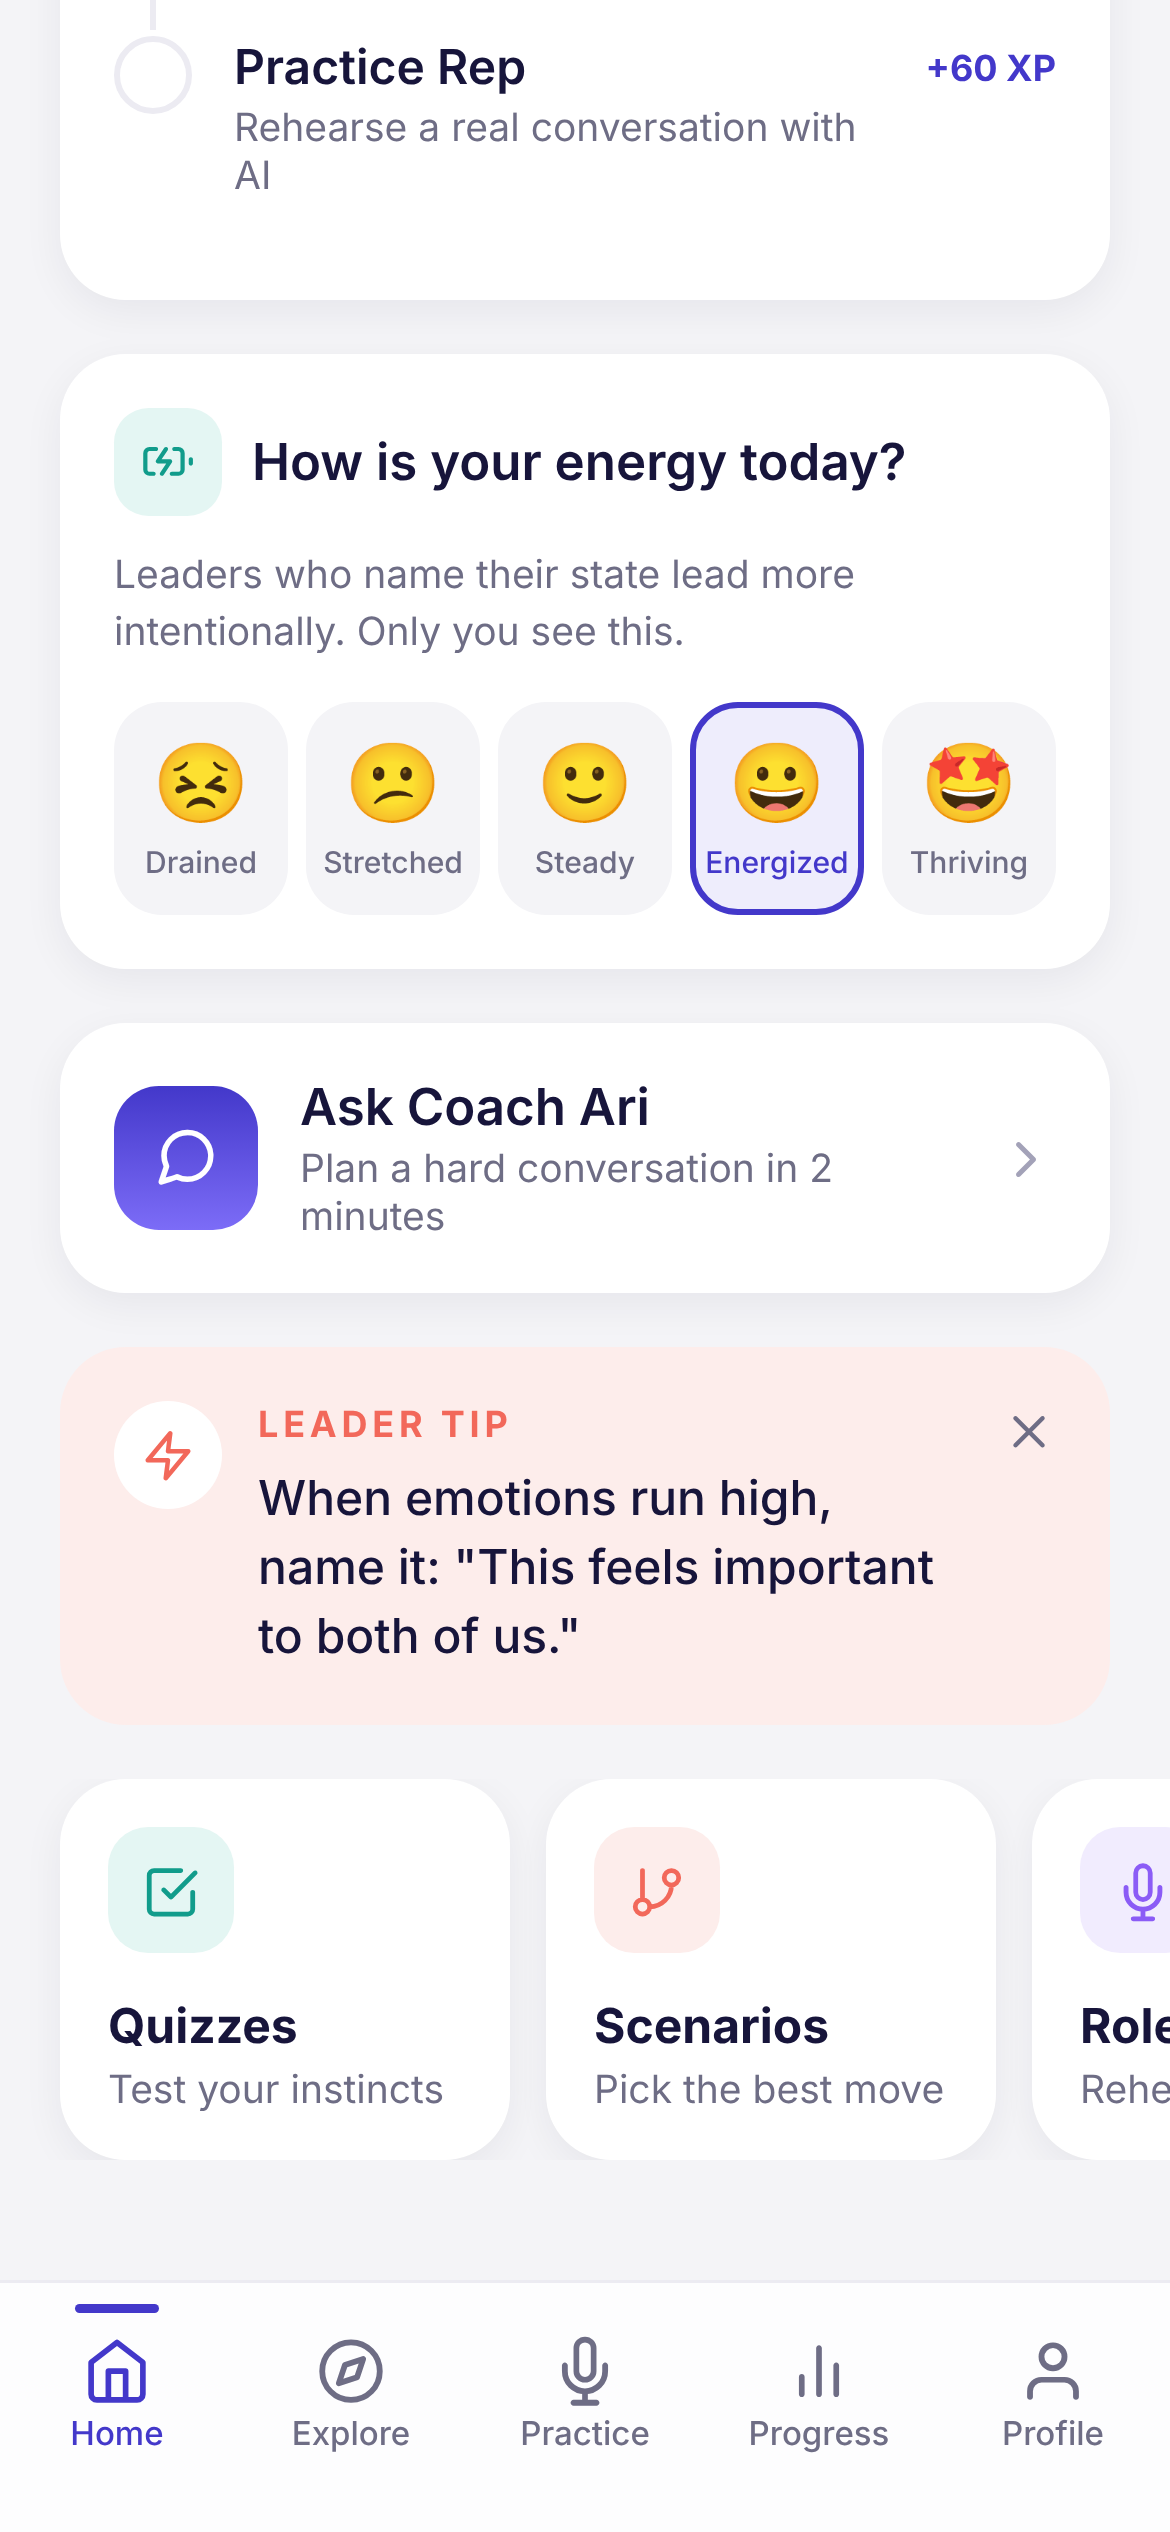
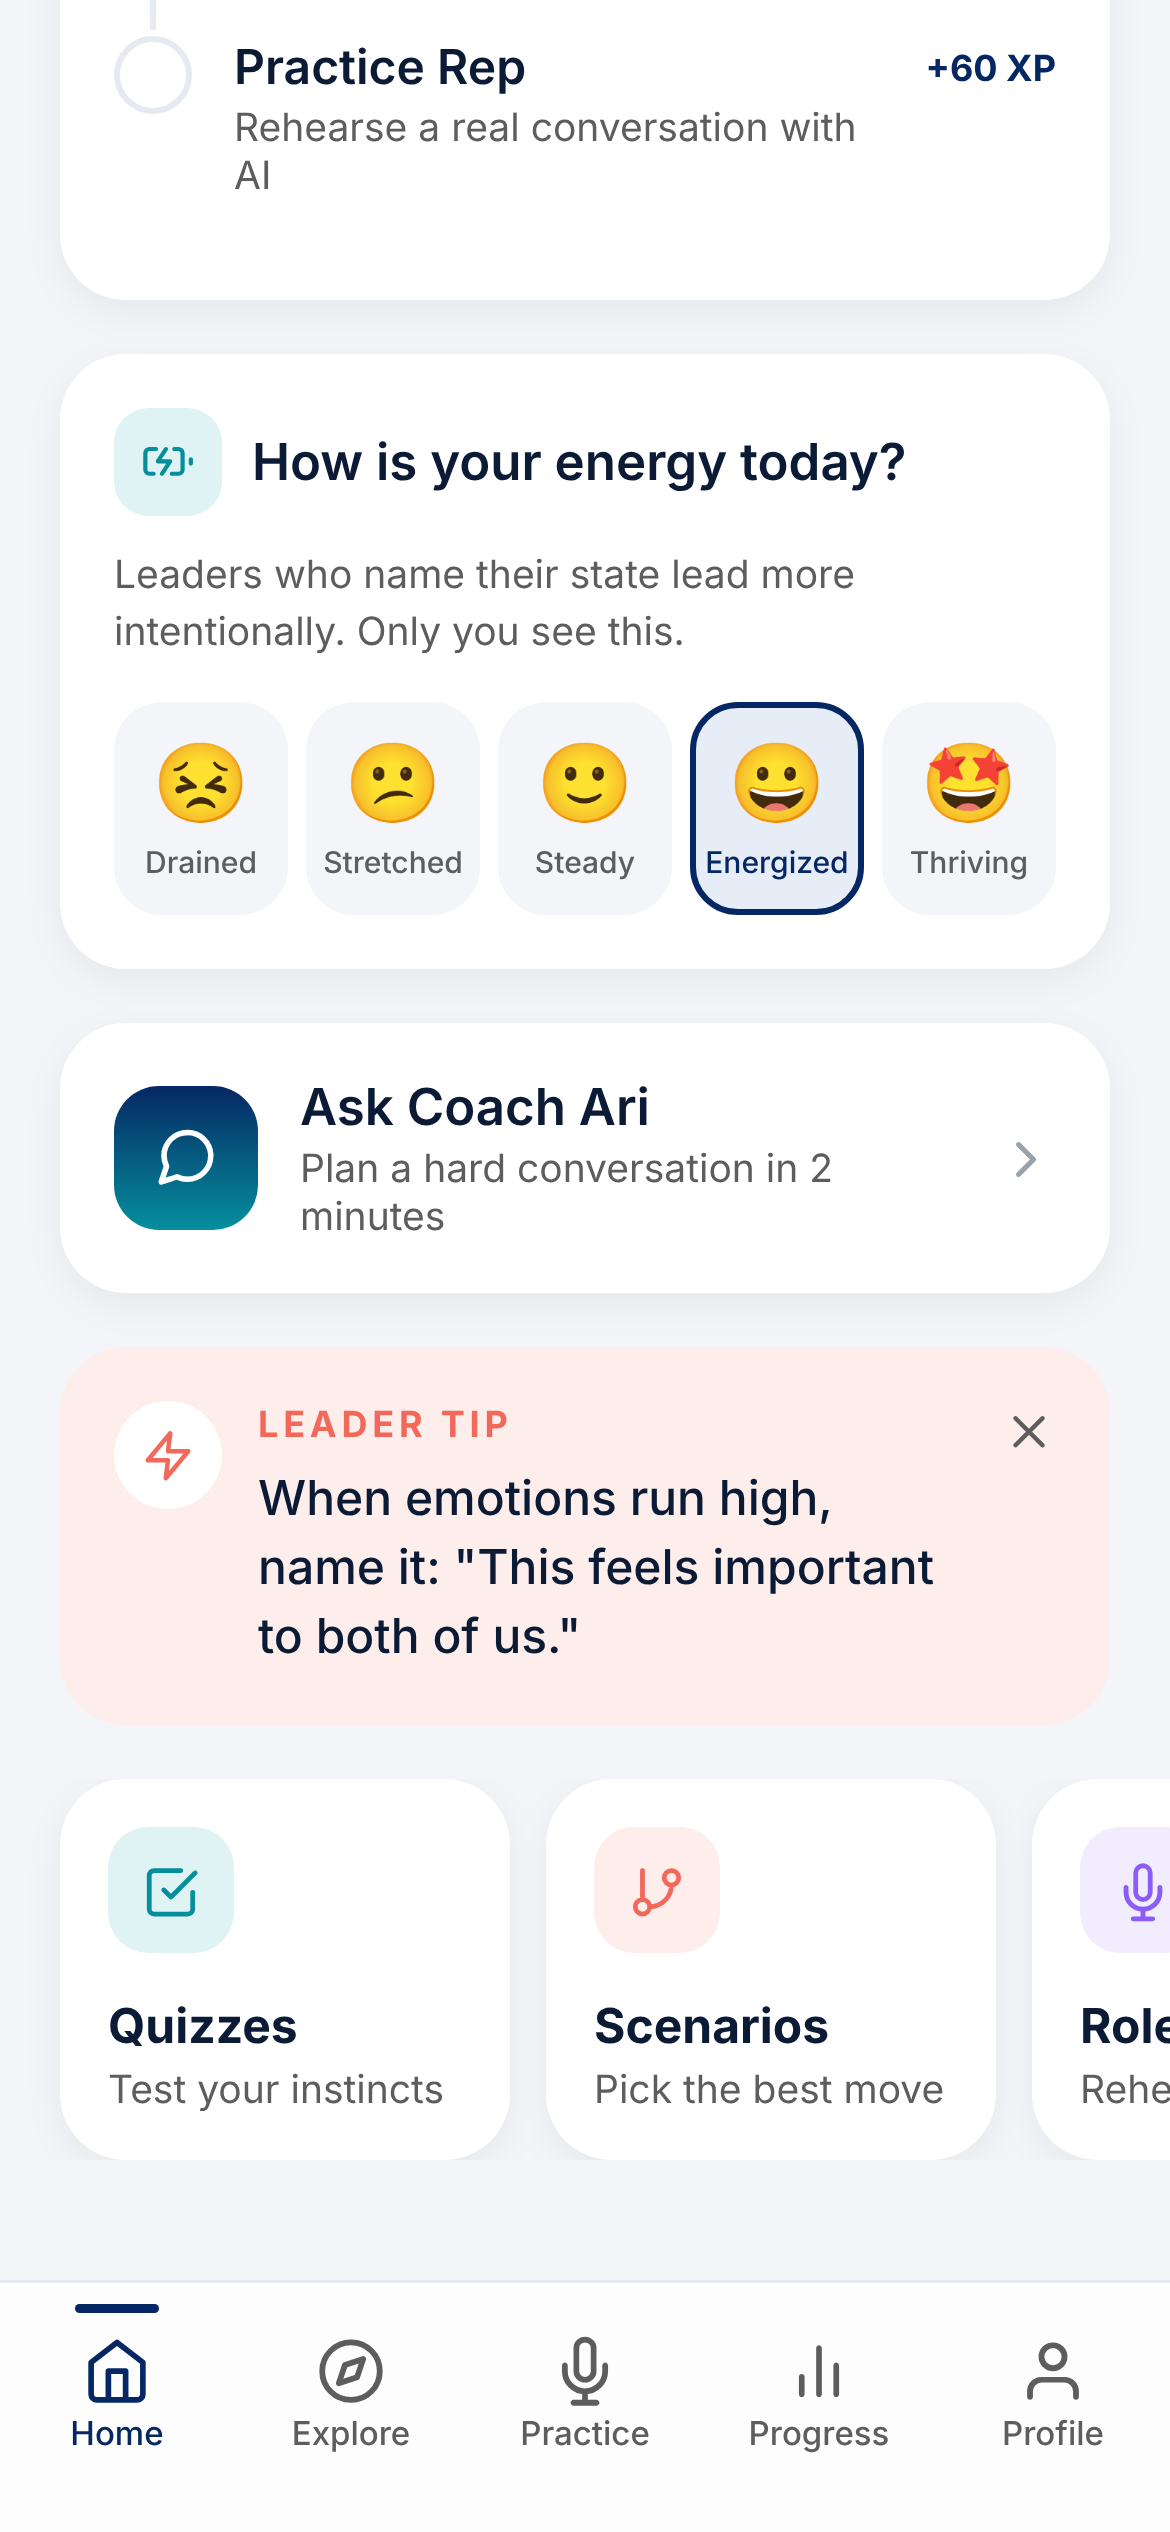
Apply Evolution to Revolution brand palette
Navy #052864 is now the primary color, with deep teal #058f9d and cyan
#00c2cb for gradients and accents, and brand charcoal #5d5d5d for
secondary text. Gradients are centralized in the theme, hardcoded
purples are removed, and screenshots and the showcase are re-rendered.

Claude-Session: https://claude.ai/code/session_01Sn6WrRmu3nsAvipC9wNryR

diff --git a/src/app/(tabs)/progress.tsx b/src/app/(tabs)/progress.tsx
@@ -5,7 +5,7 @@ import { StyleSheet, Text, View } from 'react-native';
 import { Card, ProgressBar, Screen, SectionHeader, Title } from '../../components/ui';
 import { AREAS, BADGES, LEADERBOARD } from '../../data/content';
 import { levelFor, todayKey, useAppState } from '../../state/AppState';
-import { colors, fonts, radius } from '../../theme';
+import { colors, gradients, fonts, radius } from '../../theme';
 
 const DAYS = ['M', 'T', 'W', 'T', 'F', 'S', 'S'];
 
@@ -33,7 +33,7 @@ export default function ProgressScreen() {
     <Screen>
       <Title style={{ marginTop: 12 }}>Progress</Title>
 
-      <LinearGradient colors={['#3B30B8', '#6D5DF6']} start={{ x: 0, y: 0 }} end={{ x: 1, y: 1 }} style={s.level}>
+      <LinearGradient colors={gradients.brand} start={{ x: 0, y: 0 }} end={{ x: 1, y: 1 }} style={s.level}>
         <View style={s.levelRow}>
           <View style={s.levelBadge}>
             <Text style={s.levelNum}>{level.level}</Text>
@@ -45,7 +45,7 @@ export default function ProgressScreen() {
           <Text style={s.xpTotal}>{progress.xp.toLocaleString()} XP</Text>
         </View>
         <View style={{ marginTop: 18 }}>
-          <ProgressBar pct={level.pct} color="#FFD27A" track="rgba(255,255,255,0.22)" height={10} />
+          <ProgressBar pct={level.pct} color={colors.cyan} track="rgba(255,255,255,0.22)" height={10} />
           <Text style={s.toNext}>{level.next ? `${level.toNext} XP to ${level.next.title}` : 'Max level reached. Legendary.'}</Text>
         </View>
       </LinearGradient>
@@ -145,9 +145,9 @@ const s = StyleSheet.create({
   levelRow: { flexDirection: 'row', alignItems: 'center', gap: 14 },
   levelBadge: { width: 56, height: 56, borderRadius: 18, backgroundColor: 'rgba(255,255,255,0.18)', alignItems: 'center', justifyContent: 'center', borderWidth: 2, borderColor: 'rgba(255,255,255,0.35)' },
   levelNum: { fontFamily: fonts.displayBold, fontSize: 26, color: '#fff' },
-  levelEyebrow: { fontFamily: fonts.bold, fontSize: 11, letterSpacing: 1.5, color: '#C9C3FF' },
+  levelEyebrow: { fontFamily: fonts.bold, fontSize: 11, letterSpacing: 1.5, color: '#8FE3E8' },
   levelTitle: { fontFamily: fonts.display, fontSize: 22, color: '#fff', marginTop: 2 },
-  xpTotal: { fontFamily: fonts.bold, fontSize: 15, color: '#FFD27A' },
+  xpTotal: { fontFamily: fonts.bold, fontSize: 15, color: '#fff' },
   toNext: { fontFamily: fonts.medium, fontSize: 13, color: 'rgba(255,255,255,0.85)', marginTop: 8 },
   stats: { flexDirection: 'row', gap: 10, marginTop: 14 },
   stat: { flex: 1, alignItems: 'center', paddingVertical: 16, paddingHorizontal: 8 },

diff --git a/src/app/(tabs)/practice.tsx b/src/app/(tabs)/practice.tsx
@@ -6,7 +6,7 @@ import { StyleSheet, Text, View } from 'react-native';
 import { Card, Chip, Screen, SectionHeader, Title } from '../../components/ui';
 import { ROLEPLAYS, SCENARIOS, areaById } from '../../data/content';
 import { useAppState } from '../../state/AppState';
-import { colors, fonts, radius } from '../../theme';
+import { colors, gradients, fonts, radius } from '../../theme';
 
 const DIFF = {
   'Warm up': { color: colors.success, soft: colors.successSoft },
@@ -23,7 +23,7 @@ export default function Practice() {
       <Title style={{ marginTop: 12 }}>Practice</Title>
       <Text style={s.sub}>Rehearse the conversations that matter, before they happen</Text>
 
-      <LinearGradient colors={['#1F1A5C', '#3B30B8']} start={{ x: 0, y: 0 }} end={{ x: 1, y: 1 }} style={s.hero}>
+      <LinearGradient colors={gradients.deep} start={{ x: 0, y: 0 }} end={{ x: 1, y: 1 }} style={s.hero}>
         <View style={{ flex: 1 }}>
           <Text style={s.heroEyebrow}>PRACTICE ARENA</Text>
           <Text style={s.heroTitle}>Talk it through with an AI partner who reacts like a real person.</Text>
@@ -95,7 +95,7 @@ export default function Practice() {
 const s = StyleSheet.create({
   sub: { fontFamily: fonts.body, fontSize: 16, color: colors.muted, marginTop: 4 },
   hero: { borderRadius: radius.xl, padding: 22, marginTop: 20, flexDirection: 'row' },
-  heroEyebrow: { fontFamily: fonts.bold, fontSize: 11, letterSpacing: 1.6, color: '#B9B2FF' },
+  heroEyebrow: { fontFamily: fonts.bold, fontSize: 11, letterSpacing: 1.6, color: '#8FE3E8' },
   heroTitle: { fontFamily: fonts.display, fontSize: 21, lineHeight: 28, color: '#fff', marginTop: 10 },
   heroStats: { flexDirection: 'row', gap: 16, marginTop: 16 },
   heroStat: { fontFamily: fonts.medium, fontSize: 13, color: 'rgba(255,255,255,0.85)' },
@@ -106,7 +106,7 @@ const s = StyleSheet.create({
   rpSub: { fontFamily: fonts.body, fontSize: 13, color: colors.muted, marginTop: 2, lineHeight: 18 },
   chips: { flexDirection: 'row', flexWrap: 'wrap', gap: 6, marginTop: 8 },
   xp: { fontFamily: fonts.bold, fontSize: 12, color: colors.primary },
-  custom: { flexDirection: 'row', alignItems: 'center', gap: 14, borderWidth: 1.5, borderColor: '#D9D6FA', borderStyle: 'dashed', backgroundColor: '#FAFAFF' },
+  custom: { flexDirection: 'row', alignItems: 'center', gap: 14, borderWidth: 1.5, borderColor: '#C9D6EA', borderStyle: 'dashed', backgroundColor: '#F5F8FC' },
   sc: { flexDirection: 'row', alignItems: 'center', gap: 14, marginBottom: 12 },
   scBar: { width: 4, alignSelf: 'stretch', borderRadius: 2 },
 });

diff --git a/src/app/(tabs)/index.tsx b/src/app/(tabs)/index.tsx
@@ -6,7 +6,7 @@ import { Pressable, ScrollView, StyleSheet, Text, View } from 'react-native';
 import { Card, Chip, Eyebrow, IconBubble, ProgressBar, Screen, Title } from '../../components/ui';
 import { PULSE, areaById, dailyPicks } from '../../data/content';
 import { ActivityKind, levelFor, useAppState } from '../../state/AppState';
-import { colors, fonts, radius } from '../../theme';
+import { colors, fonts, gradients, radius } from '../../theme';
 
 function greeting() {
   const h = new Date().getHours();
@@ -52,12 +52,12 @@ export default function Home() {
             <Text style={[s.statusText, { color: colors.primary }]} numberOfLines={1}>
               Lv {level.level} · {level.title}
             </Text>
-            <ProgressBar pct={level.pct} height={4} track="#D9D6FA" />
+            <ProgressBar pct={level.pct} height={4} track="#C9D6EA" />
           </View>
         </Pressable>
       </View>
 
-      <LinearGradient colors={['#3B30B8', '#6D5DF6', '#9D7BF5']} start={{ x: 0, y: 0 }} end={{ x: 1, y: 1 }} style={s.hero}>
+      <LinearGradient colors={gradients.hero} start={{ x: 0, y: 0 }} end={{ x: 1, y: 1 }} style={s.hero}>
         <View style={s.heroTag}>
           <Text style={s.heroTagText}>SCENARIO OF THE DAY · {areaById(scenario.area).title.toUpperCase()}</Text>
         </View>
@@ -110,7 +110,7 @@ export default function Home() {
       </Card>
 
       <Card style={[s.coach, { marginTop: 18 }]} onPress={() => router.push('/coach')}>
-        <LinearGradient colors={[colors.primary, '#7C6CF7']} style={s.coachIcon}>
+        <LinearGradient colors={gradients.brand} style={s.coachIcon}>
           <Feather name="message-circle" size={22} color="#fff" />
         </LinearGradient>
         <View style={{ flex: 1 }}>

diff --git a/src/app/onboarding.tsx b/src/app/onboarding.tsx
@@ -9,7 +9,7 @@ import { AREAS, AreaId } from '../data/content';
 import { formatTime, requestReminderPermission } from '../services/reminders';
 import { useAccount } from '../state/Account';
 import { TeamSize, useAppState } from '../state/AppState';
-import { colors, fonts, radius } from '../theme';
+import { colors, gradients, fonts, radius } from '../theme';
 
 const ROLES = [
   { label: 'People Manager', icon: 'users' },
@@ -79,7 +79,7 @@ export default function Onboarding() {
 
   if (step === 'welcome') {
     return (
-      <LinearGradient colors={['#2E2799', '#4338CA', '#7C6CF7']} start={{ x: 0, y: 0 }} end={{ x: 1, y: 1 }} style={{ flex: 1 }}>
+      <LinearGradient colors={gradients.welcome} start={{ x: 0, y: 0 }} end={{ x: 1, y: 1 }} style={{ flex: 1 }}>
         <SafeAreaView style={s.welcome}>
           <View style={{ flex: 1, justifyContent: 'center' }}>
             <View style={s.logo}>
@@ -281,7 +281,7 @@ function AccountStep({ onDone }: { onDone: () => void }) {
 const s = StyleSheet.create({
   welcome: { flex: 1, paddingHorizontal: 28 },
   logo: { width: 68, height: 68, borderRadius: 22, backgroundColor: '#fff', alignItems: 'center', justifyContent: 'center' },
-  brand: { fontFamily: fonts.bold, fontSize: 14, letterSpacing: 3, color: '#C9C3FF', marginTop: 26, textTransform: 'uppercase' },
+  brand: { fontFamily: fonts.bold, fontSize: 14, letterSpacing: 3, color: '#8FE3E8', marginTop: 26, textTransform: 'uppercase' },
   welcomeTitle: { fontFamily: fonts.display, fontSize: 40, lineHeight: 46, color: '#fff', marginTop: 8 },
   welcomeBody: { fontFamily: fonts.body, fontSize: 17, lineHeight: 25, color: 'rgba(255,255,255,0.85)', marginTop: 14 },
   perk: { flexDirection: 'row', alignItems: 'center', gap: 14 },

diff --git a/src/theme/index.ts b/src/theme/index.ts
@@ -1,20 +1,22 @@
 export const colors = {
-  bg: '#F4F4F7',
+  bg: '#F3F5F8',
   card: '#FFFFFF',
-  ink: '#17153B',
-  body: '#3B3A55',
-  muted: '#6E6D85',
-  faint: '#A3A2B8',
-  line: '#ECEBF2',
-  primary: '#4338CA',
-  primarySoft: '#EEEDFC',
-  primaryDeep: '#2E2799',
+  ink: '#0B1B36',
+  body: '#3A4252',
+  muted: '#5D5D5D',
+  faint: '#9AA1AD',
+  line: '#E6E9EF',
+  primary: '#052864',
+  primarySoft: '#E6EDF6',
+  primaryDeep: '#031B45',
   coral: '#F2685A',
   coralSoft: '#FDEDEB',
   amber: '#F5A524',
   amberSoft: '#FEF5E3',
-  teal: '#119C8B',
-  tealSoft: '#E4F6F3',
+  teal: '#058F9D',
+  tealSoft: '#E0F3F4',
+  cyan: '#00C2CB',
+  cyanSoft: '#E0F8F9',
   violet: '#8B5CF6',
   violetSoft: '#F1ECFE',
   blue: '#2F7DEB',
@@ -23,6 +25,14 @@ export const colors = {
   roseSoft: '#FCE9F0',
   success: '#16A34A',
   successSoft: '#E5F6EB',
+};
+
+/** Brand gradients (Evolution to Revolution palette). */
+export const gradients = {
+  hero: ['#052864', '#064A7A', '#058F9D'] as const,
+  brand: ['#052864', '#058F9D'] as const,
+  deep: ['#031B45', '#052864'] as const,
+  welcome: ['#031B45', '#052864', '#058F9D'] as const,
 };
 
 export const fonts = {
@@ -37,7 +47,7 @@ export const fonts = {
 export const radius = { sm: 10, md: 16, lg: 22, xl: 28, pill: 999 };
 
 export const shadow = {
-  shadowColor: '#17153B',
+  shadowColor: '#0B1B36',
   shadowOpacity: 0.06,
   shadowRadius: 14,
   shadowOffset: { width: 0, height: 4 },

diff --git a/src/components/Chat.tsx b/src/components/Chat.tsx
@@ -110,7 +110,7 @@ const s = StyleSheet.create({
   theirText: { fontFamily: fonts.body, fontSize: 15, lineHeight: 22, color: colors.ink },
   mineText: { fontFamily: fonts.body, fontSize: 15, lineHeight: 22, color: '#fff' },
   typingDot: { width: 7, height: 7, borderRadius: 4, backgroundColor: colors.muted },
-  sug: { backgroundColor: '#fff', borderWidth: 1, borderColor: '#D9D6FA', borderRadius: radius.pill, paddingHorizontal: 14, paddingVertical: 9 },
+  sug: { backgroundColor: '#fff', borderWidth: 1, borderColor: '#C9D6EA', borderRadius: radius.pill, paddingHorizontal: 14, paddingVertical: 9 },
   sugText: { fontFamily: fonts.medium, fontSize: 13, color: colors.primary },
   inputBar: { flexDirection: 'row', alignItems: 'flex-end', gap: 10, paddingHorizontal: 16, paddingTop: 10, paddingBottom: 28, backgroundColor: colors.bg, borderTopWidth: 1, borderTopColor: colors.line },
   input: { flex: 1, minHeight: 46, maxHeight: 120, backgroundColor: '#fff', borderRadius: 23, paddingHorizontal: 18, paddingTop: 13, paddingBottom: 12, fontFamily: fonts.body, fontSize: 15, color: colors.ink, borderWidth: 1, borderColor: colors.line, outlineStyle: 'none' } as never,

diff --git a/src/components/Reward.tsx b/src/components/Reward.tsx
@@ -4,14 +4,14 @@ import React from 'react';
 import { StyleSheet, Text, View } from 'react-native';
 import { BADGES, LEVELS } from '../data/content';
 import { AwardResult } from '../state/AppState';
-import { colors, fonts, radius } from '../theme';
+import { colors, gradients, fonts, radius } from '../theme';
 
 export function Reward({ result, headline }: { result: AwardResult; headline: string }) {
   const badges = BADGES.filter((b) => result.newBadges.includes(b.id));
   const level = result.levelUp ? LEVELS.find((l) => l.level === result.levelUp) : null;
   return (
     <View style={{ gap: 12 }}>
-      <LinearGradient colors={[colors.primary, '#6D5DF6']} start={{ x: 0, y: 0 }} end={{ x: 1, y: 1 }} style={s.hero}>
+      <LinearGradient colors={gradients.brand} start={{ x: 0, y: 0 }} end={{ x: 1, y: 1 }} style={s.hero}>
         <View style={s.burst}>
           <Feather name="zap" size={30} color={colors.amber} />
         </View>
